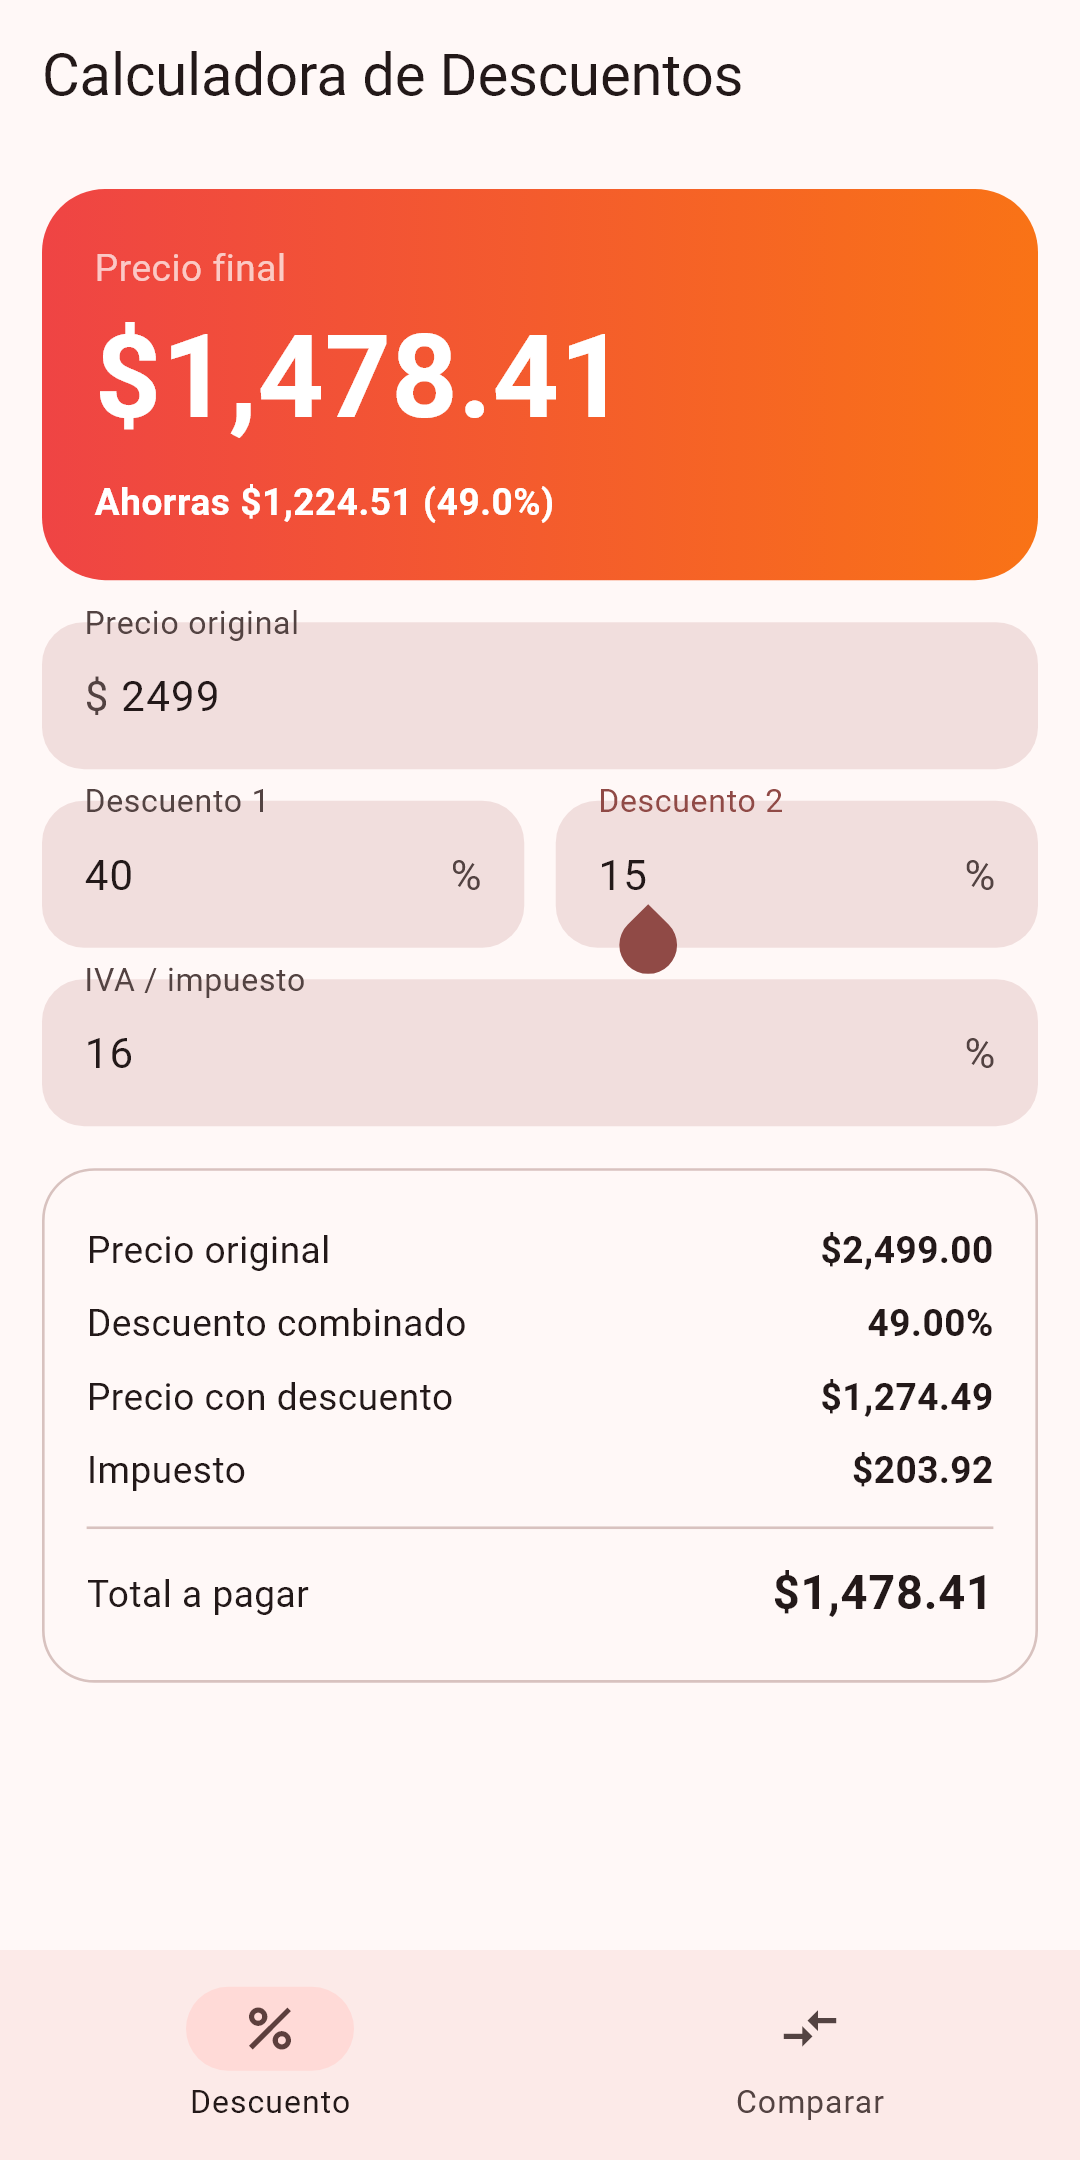
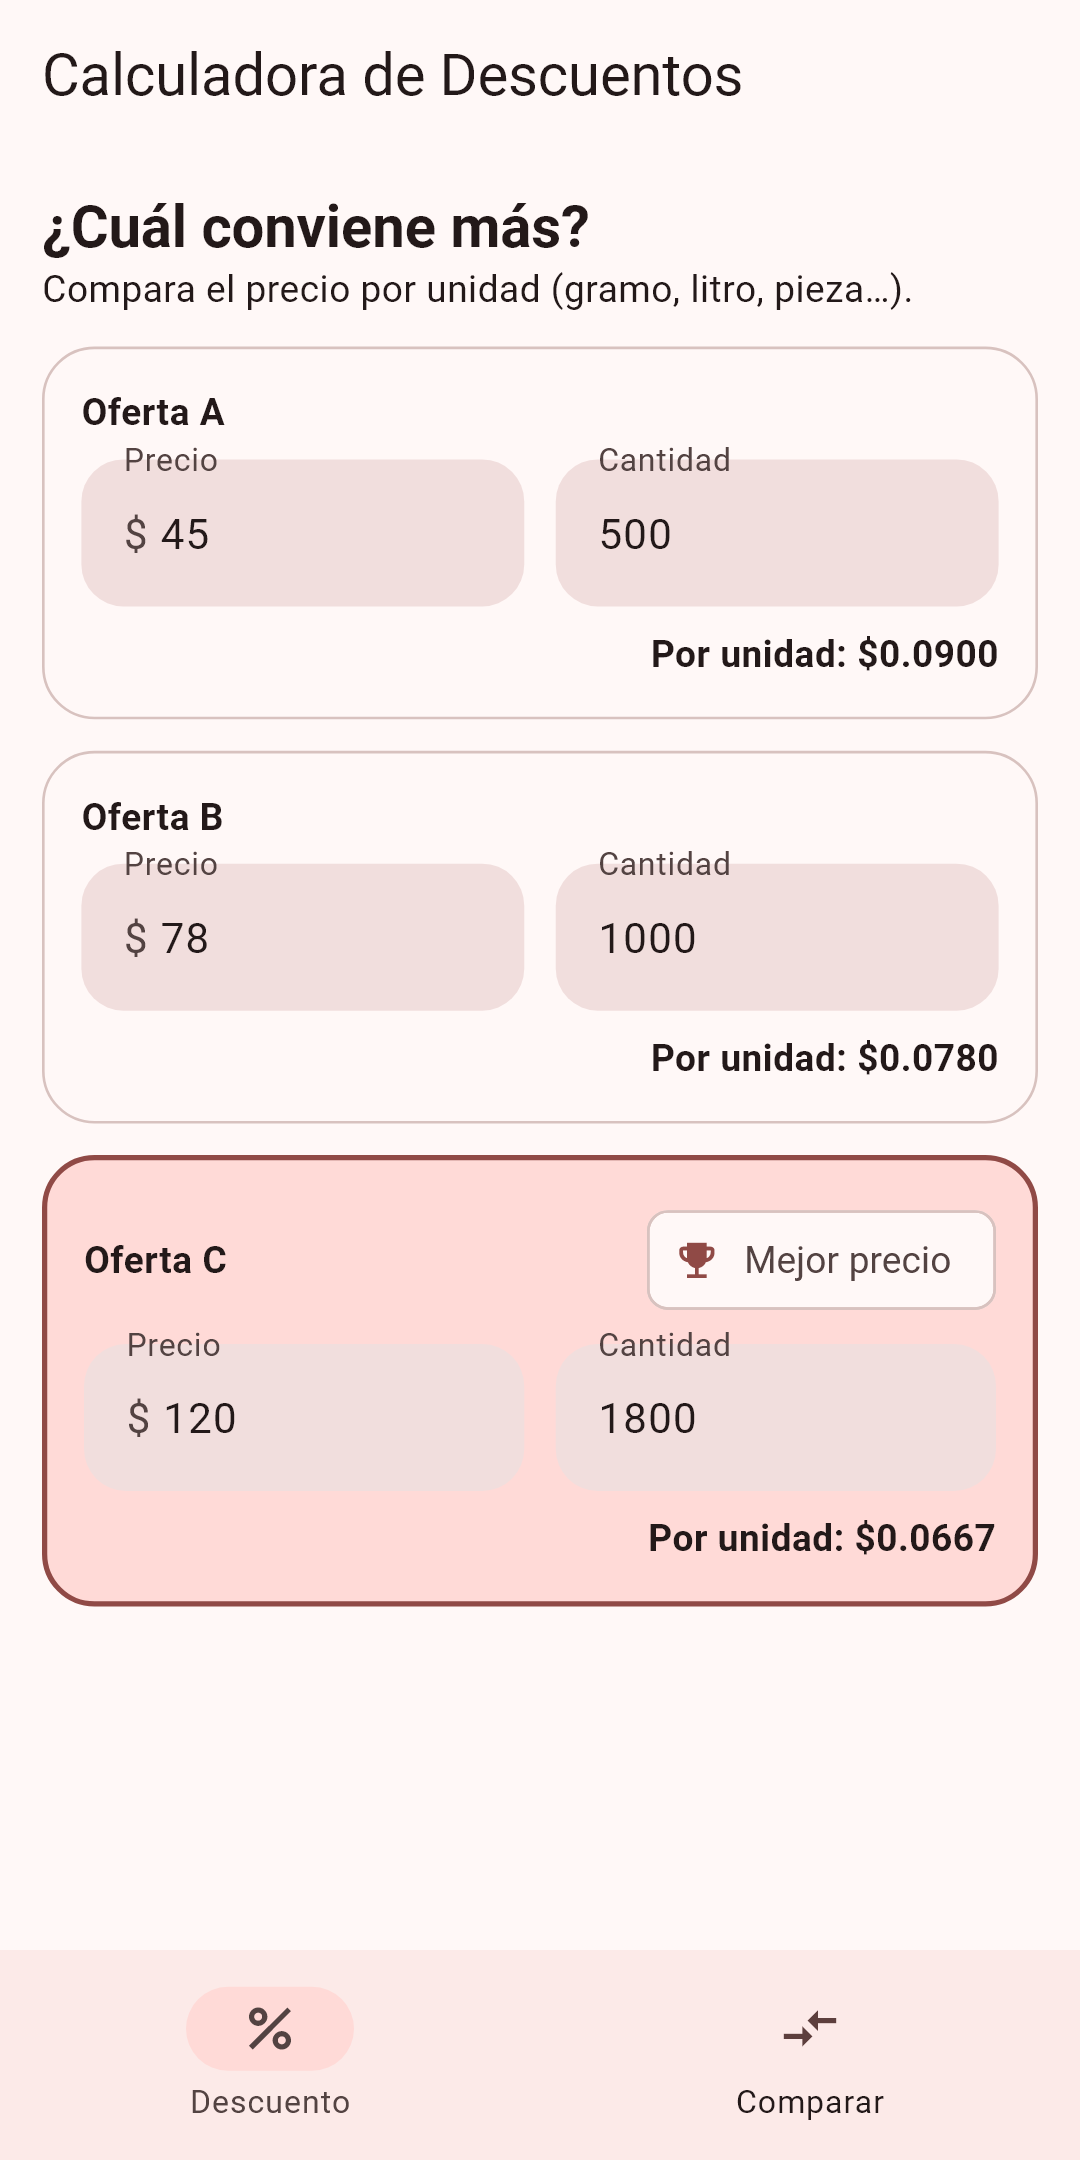
Capturas corregidas

diff --git a/test/shots_test.dart b/test/shots_test.dart
@@ -69,11 +69,12 @@ void main() {
     await tester.pump(const Duration(milliseconds: 300));
     await save('screenshot_2.png');
 
-    await go(app(1));
+    await tester.tap(find.text('Comparar'));
+    await tester.pump(const Duration(milliseconds: 300));
     await save('screenshot_3.png');
 
-    await tester.enterText(find.byType(TextField).at(4), '30');
-    await tester.enterText(find.byType(TextField).at(5), '250');
+    await tester.enterText(find.byType(TextField).at(0), '30');
+    await tester.enterText(find.byType(TextField).at(1), '250');
     await tester.pump(const Duration(milliseconds: 300));
     await save('screenshot_4.png');
   });
